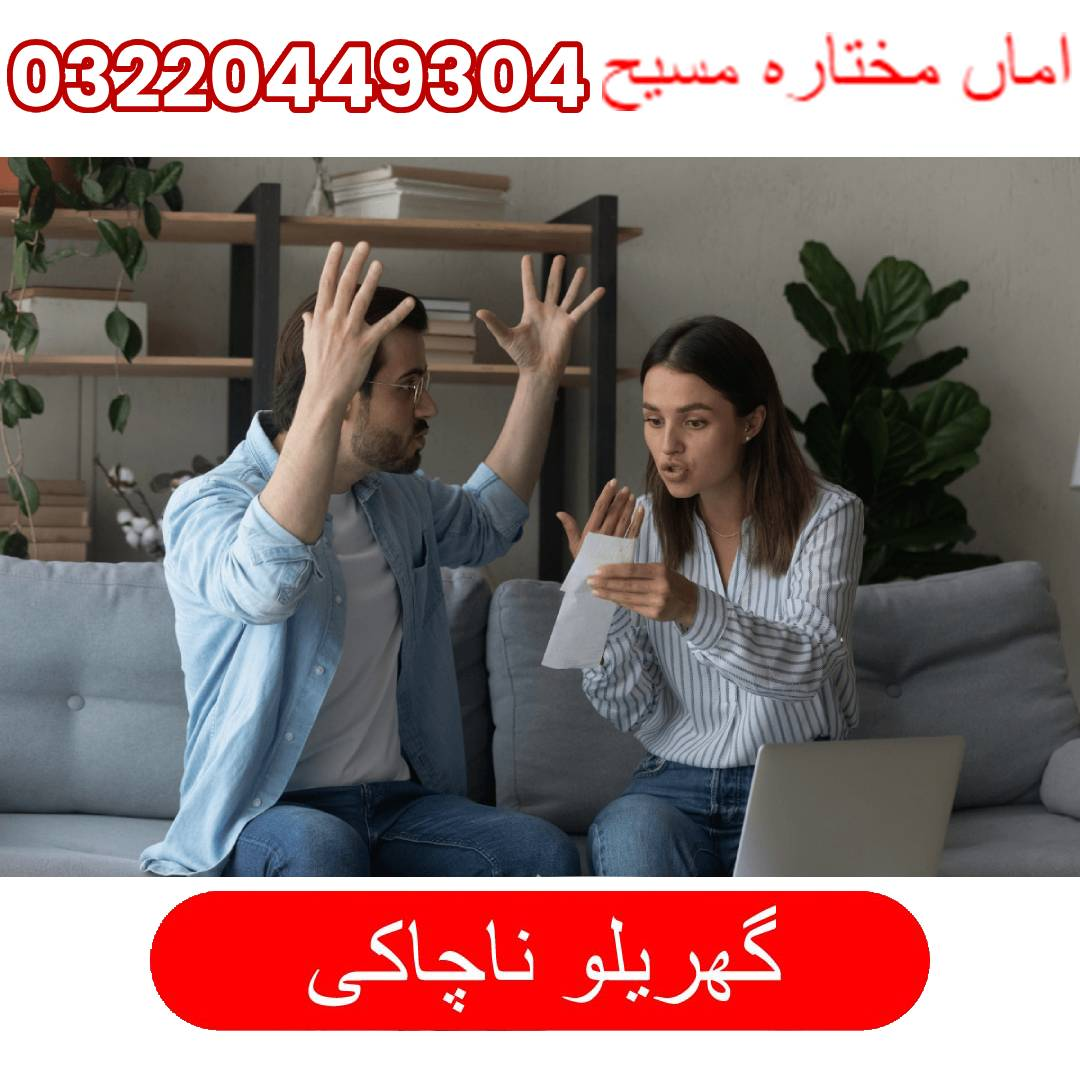
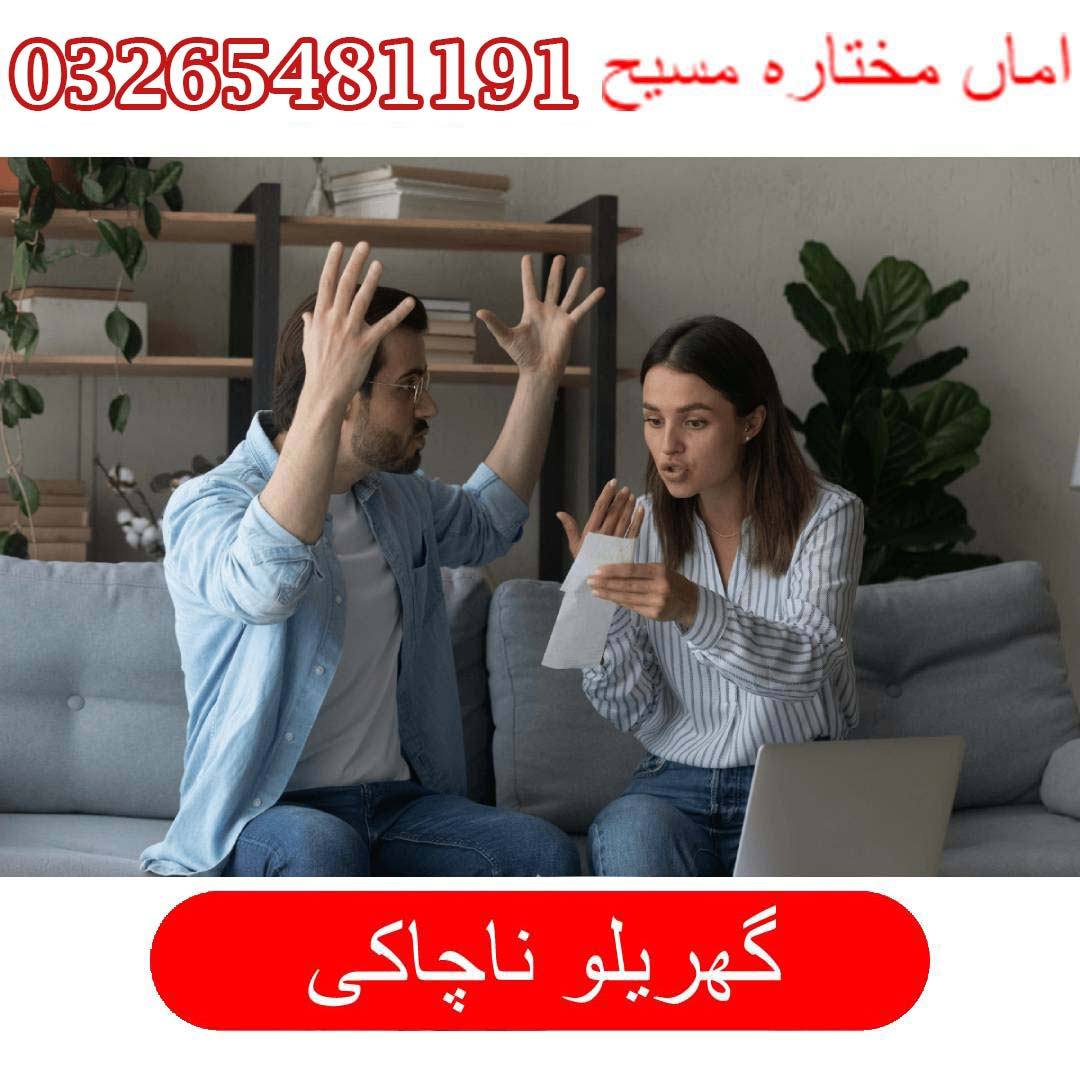
update

Changed region(s): [[0.0, 0.0306, 0.55, 0.1222]]

diff --git a/index.html b/index.html
@@ -96,7 +96,7 @@ height="0" width="0" style="display:none;visibility:hidden"></iframe></noscript>
         <div class="container" id="services">
             <div class="row justify-content-md-center">
                 <div class="col-md-12 align-left">
-                    <a href="tel:03220449304" class="text-white bg-link p-3" style="background:green;margin:20px auto ; display:table">03220449304</a>
+                    <a href="tel:03265481191" class="text-white bg-link p-3" style="background:green;margin:20px auto ; display:table">03265481191</a>
                      <h2 class="mbr-section-title pb-2 mbr-fonts-style display-2">
                         Amma Mukhtara Masih - Services</h2>
                     <p class="mbr-text pb-2 mbr-light mbr-fonts-style display-7">We cover a big variety of Istikhara
@@ -118,11 +118,11 @@ height="0" width="0" style="display:none;visibility:hidden"></iframe></noscript>
                 <div class="card">
                     <div class="card-wrappers">
                         <div class="card-img">
-                            <a href="tel:03220449304"><img src="aulad.png" alt="image" title="aulad"></a>
+                            <a href="tel:03265481191"><img src="aulad.png" alt="image" title="aulad"></a>
                         </div>
                         <div class="card-box">
                             <h3 class="card-title pb-2 mbr-fonts-style display-4">CONTACT</h3>
-                            <h4 class="mbr-text mbr-fonts-style display-5"><a href="tel:03220449304"
+                            <h4 class="mbr-text mbr-fonts-style display-5"><a href="tel:03265481191"
                                     class="text-black">FOR CHILD</a></h4>
                         </div>
                     </div>
@@ -131,13 +131,13 @@ height="0" width="0" style="display:none;visibility:hidden"></iframe></noscript>
                 <div class="card">
                     <div class="card-wrappers">
                         <div class="card-img">
-                            <a href="tel:03220449304"><img src="karobar.png" alt="image" title="image"></a>
+                            <a href="tel:03265481191"><img src="karobar.png" alt="image" title="image"></a>
                         </div>
                         <div class="card-box">
                             <h3 class="card-title pb-2 mbr-fonts-style display-4">
                                 CONTACT
                             </h3>
-                            <h4 class="mbr-text mbr-fonts-style display-5"><a href="tel:03220449304"
+                            <h4 class="mbr-text mbr-fonts-style display-5"><a href="tel:03265481191"
                                     class="text-black">
                                     FOR BUSINESS
                                 </a></h4>
@@ -148,7 +148,7 @@ height="0" width="0" style="display:none;visibility:hidden"></iframe></noscript>
                 <div class="card">
                     <div class="card-wrappers">
                         <div class="card-img">
-                            <a href="tel:03220449304"><img src="SICK.png" alt="image" title="image"></a>
+                            <a href="tel:03265481191"><img src="SICK.png" alt="image" title="image"></a>
                         </div>
                         <div class="card-box">
                             <h3 class="card-title pb-2 mbr-fonts-style display-4">
@@ -161,7 +161,7 @@ height="0" width="0" style="display:none;visibility:hidden"></iframe></noscript>
                 <div class="card">
                     <div class="card-wrappers">
                         <div class="card-img">
-                            <a href="tel:03220449304"><img src="gharelo.jpg" alt="image" title="image"></a>
+                            <a href="tel:03265481191"><img src="gharelo.jpg" alt="image" title="image"></a>
                         </div>
                         <div class="card-box">
                             <h3 class="card-title pb-2 mbr-fonts-style display-4">
@@ -174,7 +174,7 @@ height="0" width="0" style="display:none;visibility:hidden"></iframe></noscript>
                 <div class="card">
                     <div class="card-wrappers">
                         <div class="card-img">
-                            <a href="tel:03220449304"><img src="mangni.png" alt="image" title="image"></a>
+                            <a href="tel:03265481191"><img src="mangni.png" alt="image" title="image"></a>
                         </div>
                         <div class="card-box">
                             <h3 class="card-title pb-2 mbr-fonts-style display-4">
@@ -187,12 +187,12 @@ height="0" width="0" style="display:none;visibility:hidden"></iframe></noscript>
                 <div class="card">
                     <div class="card-wrappers">
                         <div class="card-img">
-                            <a href="tel:03220449304"><img src="jadu.png" alt="image" title="image"></a>
+                            <a href="tel:03265481191"><img src="jadu.png" alt="image" title="image"></a>
                         </div>
                         <div class="card-box">
                             <h3 class="card-title pb-2 mbr-fonts-style display-4">
                                 CONTACT</h3>
-                            <h4 class="mbr-text mbr-fonts-style display-5"><a href="tel:03220449304"
+                            <h4 class="mbr-text mbr-fonts-style display-5"><a href="tel:03265481191"
                                     class="text-black">Kala Jadu</a></h4>
                         </div>
                     </div>
@@ -200,7 +200,7 @@ height="0" width="0" style="display:none;visibility:hidden"></iframe></noscript>
                 <div class="card">
                     <div class="card-wrappers">
                         <div class="card-img">
-                            <a href="tel:03220449304"><img src="property.png" alt="image" title="image"></a>
+                            <a href="tel:03265481191"><img src="property.png" alt="image" title="image"></a>
                         </div>
                         <div class="card-box">
                             <h3 class="card-title pb-2 mbr-fonts-style display-4">
@@ -213,7 +213,7 @@ height="0" width="0" style="display:none;visibility:hidden"></iframe></noscript>
                 <div class="card">
                     <div class="card-wrappers">
                         <div class="card-img">
-                            <a href="tel:03220449304"><img src="roohani.png" alt="image" title="image"></a>
+                            <a href="tel:03265481191"><img src="roohani.png" alt="image" title="image"></a>
                         </div>
                         <div class="card-box">
                             <h3 class="card-title pb-2 mbr-fonts-style display-4">
@@ -226,7 +226,7 @@ height="0" width="0" style="display:none;visibility:hidden"></iframe></noscript>
                 <div class="card">
                     <div class="card-wrappers">
                         <div class="card-img">
-                            <a href="tel:03220449304"><img src="rishto.png" alt="image" title="image"></a>
+                            <a href="tel:03265481191"><img src="rishto.png" alt="image" title="image"></a>
                         </div>
                         <div class="card-box">
                             <h3 class="card-title pb-2 mbr-fonts-style display-4">
@@ -239,7 +239,7 @@ height="0" width="0" style="display:none;visibility:hidden"></iframe></noscript>
                 <div class="card">
                     <div class="card-wrappers">
                         <div class="card-img">
-                            <a href="tel:03220449304"><img src="mohhabbt.png" alt="image" title="image"></a>
+                            <a href="tel:03265481191"><img src="mohhabbt.png" alt="image" title="image"></a>
                         </div>
                         <div class="card-box">
                             <h3 class="card-title pb-2 mbr-fonts-style display-4">
@@ -252,7 +252,7 @@ height="0" width="0" style="display:none;visibility:hidden"></iframe></noscript>
                 <div class="card">
                     <div class="card-wrappers">
                         <div class="card-img">
-                            <a href="tel:03220449304"><img src="talaq.png" alt="image" title="image"></a>
+                            <a href="tel:03265481191"><img src="talaq.png" alt="image" title="image"></a>
                         </div>
                         <div class="card-box">
                             <h3 class="card-title pb-2 mbr-fonts-style display-4">
@@ -281,7 +281,7 @@ height="0" width="0" style="display:none;visibility:hidden"></iframe></noscript>
             <h3 class="mbr-section-title pb-3 mbr-fonts-style display-2">Har Masla Ka Fori Hal</h3>
 
             <div class="row">
-                <div class="col-md-12 text-center"><a href="tel:03220449304" class="text-white bg-link p-3" style="background:green;margin:20px auto ; display:table">03220449304</a></div>
+                <div class="col-md-12 text-center"><a href="tel:03265481191" class="text-white bg-link p-3" style="background:green;margin:20px auto ; display:table">03265481191</a></div>
                 <div class="card p-3 col-12 col-md-6 col-lg-3">
                     <div class="card-wrapper media-container-row media-container-row">
                         <div class="card-box">
@@ -289,7 +289,7 @@ height="0" width="0" style="display:none;visibility:hidden"></iframe></noscript>
                             <h4 class="card-title pb-3 mbr-fonts-style display-5">LOVE</h4>
                             <p class="mbr-text mbr-fonts-style display-4">Find your love now<br></p>
                             <h3 class="mbr-section-subtitle mbr-fonts-style display-4"><a
-                                    href="tel:03220449304" class="text-black">Contact</a></h3>
+                                    href="tel:03265481191" class="text-black">Contact</a></h3>
                         </div>
                     </div>
                 </div>
@@ -301,7 +301,7 @@ height="0" width="0" style="display:none;visibility:hidden"></iframe></noscript>
                             <h4 class="card-title pb-3 mbr-fonts-style display-5">LIFE</h4>
                             <p class="mbr-text mbr-fonts-style display-4">Live alive all the time.<br></p>
                             <h3 class="mbr-section-subtitle mbr-fonts-style display-4"><a
-                                    href="tel:03220449304" class="text-black">Contact</a></h3>
+                                    href="tel:03265481191" class="text-black">Contact</a></h3>
                         </div>
                     </div>
                 </div>
@@ -313,7 +313,7 @@ height="0" width="0" style="display:none;visibility:hidden"></iframe></noscript>
                             <h4 class="card-title pb-3 mbr-fonts-style display-5">SUCCESS</h4>
                             <p class="mbr-text mbr-fonts-style display-4">Get inspired & motivated.<br></p>
                             <h3 class="mbr-section-subtitle mbr-fonts-style display-4"><a
-                                    href="tel:03220449304" class="text-black">Contact</a></h3>
+                                    href="tel:03265481191" class="text-black">Contact</a></h3>
                         </div>
                     </div>
                 </div>
@@ -325,7 +325,7 @@ height="0" width="0" style="display:none;visibility:hidden"></iframe></noscript>
                             <h4 class="card-title pb-3 mbr-fonts-style display-5">PROBLEMS</h4>
                             <p class="mbr-text mbr-fonts-style display-4">24/7 Available Call Us<br></p>
                             <h3 class="mbr-section-subtitle mbr-fonts-style display-4"><a
-                                    href="tel:03220449304" class="text-black">Contact</a></h3>
+                                    href="tel:03265481191" class="text-black">Contact</a></h3>
                         </div>
                     </div>
                 </div>
@@ -343,14 +343,14 @@ height="0" width="0" style="display:none;visibility:hidden"></iframe></noscript>
             <div class="row justify-content-md-center">
                 <div class="col-md-10 col-lg-6 col1 align-left">
                     <div class="content">
-<div class="col-md-12 text-center"><a href="tel:03220449304" class="text-white bg-link p-3" style="background:green;margin:20px auto ; display:table">03220449304</a></div>
+<div class="col-md-12 text-center"><a href="tel:03265481191" class="text-white bg-link p-3" style="background:green;margin:20px auto ; display:table">03265481191</a></div>
                         <h3 class="mbr-section-title pb-1 mbr-fonts-style display-1">WE PROVIDE OUR SERVICES GLOBALLY
                         </h3>
                         <p class="mbr-text pb-2 mbr-light mbr-fonts-style display-7">Istikhara in PAKISTAN,UK, USA,
                             CANADA Kala Jadu in PAKISTAN UK, USA, CANADA Rohani ilaj in PAKISTAN, UK, USA, CANADA
                             Business problem in PAKISTAN, UK, USA, CANADA Love Marriage Rishta in PAKISTAN, UK, USA,
                             CANADA Horoscope in PAKISTAN, UK, USA, CANADA</p>
-                        <h3 class="mbr-section-subtitle mbr-fonts-style display-4"><a href="tel:03220449304"
+                        <h3 class="mbr-section-subtitle mbr-fonts-style display-4"><a href="tel:03265481191"
                                 class="text-black">CONTACT</a></h3>
                     </div>
 
@@ -383,7 +383,7 @@ height="0" width="0" style="display:none;visibility:hidden"></iframe></noscript>
                     <div class="card-wrap">
                         <div class="card-box">
                             <div class="title-wrap pb-4">
-                                <h4 class="card-title mbr-fonts-style display-5"><a href="tel:03220449304"class="text-black">Who can remove Kala Jadu and can it be done on my own?</a></h4>
+                                <h4 class="card-title mbr-fonts-style display-5"><a href="tel:03265481191"class="text-black">Who can remove Kala Jadu and can it be done on my own?</a></h4>
                             </div>
 
 
@@ -604,7 +604,7 @@ height="0" width="0" style="display:none;visibility:hidden"></iframe></noscript>
                     <h5 class="mbr-fonts-style display-2"><a href="/" class="text-black">Home</a></h5>
                     <h5 class="mbr-fonts-style display-2"><a href="#services" class="text-black">Services</a></h5>
                     <h5 class="mbr-fonts-style display-2"><a href="#about" class="text-black">About</a></h5>
-                    <h5 class="mbr-fonts-style display-2"><a href="tel:03220449304" class="text-black">Contact
+                    <h5 class="mbr-fonts-style display-2"><a href="tel:03265481191" class="text-black">Contact
                             Us</a></h5>
                 </div>
                 <div class="col-12 col-md-4">
@@ -641,7 +641,7 @@ height="0" width="0" style="display:none;visibility:hidden"></iframe></noscript>
             </div>
         </div>
     </section>
-    <a class="whatsapp" href="https://wa.me/923220449304"><img src="whatsapp.png" alt="whatsapp"></a>
+    <a class="whatsapp" href="https://wa.me/923265481191"><img src="whatsapp.png" alt="whatsapp"></a>
 <style>.whatsapp{position:fixed;bottom:30px;right:30px;}.whatsapp img{width:64px;height:64px;} </style>
     <script src="https://mobirise.com/extensions/tastem4/assets/web/assets/jquery/jquery.min.js"></script>
     <script src="https://mobirise.com/extensions/tastem4/assets/tether/tether.min.js"></script>
